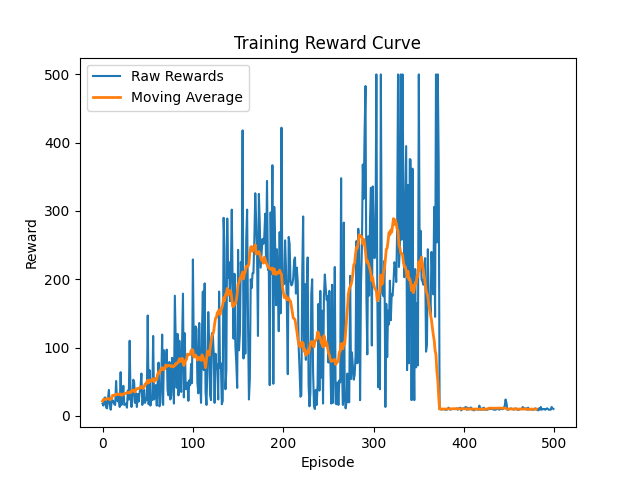
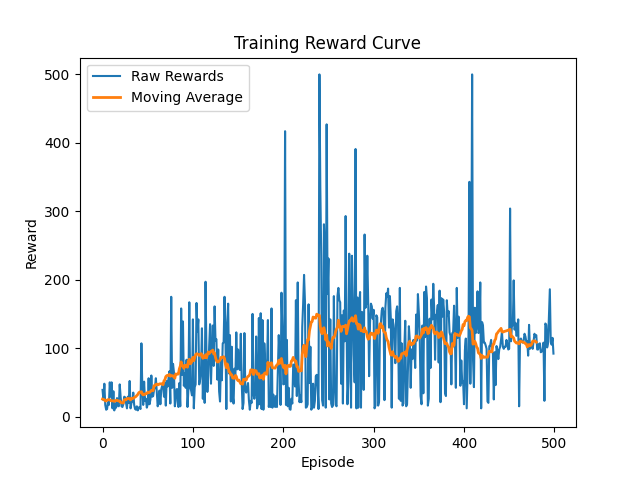
Stable DQN with target network and checkpointing

diff --git a/train.py b/train.py
@@ -16,6 +16,10 @@ print("Action dim:", action_dim)
 
 model = DQN(state_dim, action_dim)
 
+target_model = DQN(state_dim, action_dim)
+target_model.load_state_dict(model.state_dict())
+target_model.eval()
+
 optimizer = torch.optim.Adam(model.parameters(), lr=1e-3)
 
 buffer = ReplayBuffer(10000)
@@ -35,6 +39,8 @@ def moving_average(data, window_size=20):
 
 best_reward = 0
 
+target_update_freq = 10
+
 for episode in range(episodes):
 
     state, _ = env.reset()
@@ -43,7 +49,6 @@ for episode in range(episodes):
 
     while not done:
 
-        # epsilon-greedy action
         if np.random.rand() < epsilon:
             action = env.action_space.sample()
         else:
@@ -67,7 +72,7 @@ for episode in range(episodes):
             dones = torch.FloatTensor(dones)
 
             q_values = model(states)
-            next_q_values = model(next_states)
+            next_q_values = target_model(next_states)
 
             q_value = q_values.gather(1, actions.unsqueeze(1)).squeeze(1)
             next_q_value = next_q_values.max(1)[0]
@@ -82,13 +87,17 @@ for episode in range(episodes):
 
         state = next_state
         total_reward += reward
-        if total_reward > best_reward:
-            best_reward = total_reward
-            torch.save(model.state_dict(), "best_dqn_cartpole.pth")
+
     
     epsilon = max(epsilon * epsilon_decay, epsilon_min)
 
+    if episode % target_update_freq == 0:
+        target_model.load_state_dict(model.state_dict())
+
     rewards.append(total_reward)
+    if total_reward > best_reward:
+        best_reward = total_reward
+        torch.save(model.state_dict(), "best_dqn_cartpole.pth")
 
     print(f"Episode {episode}, Reward: {total_reward}")
 
